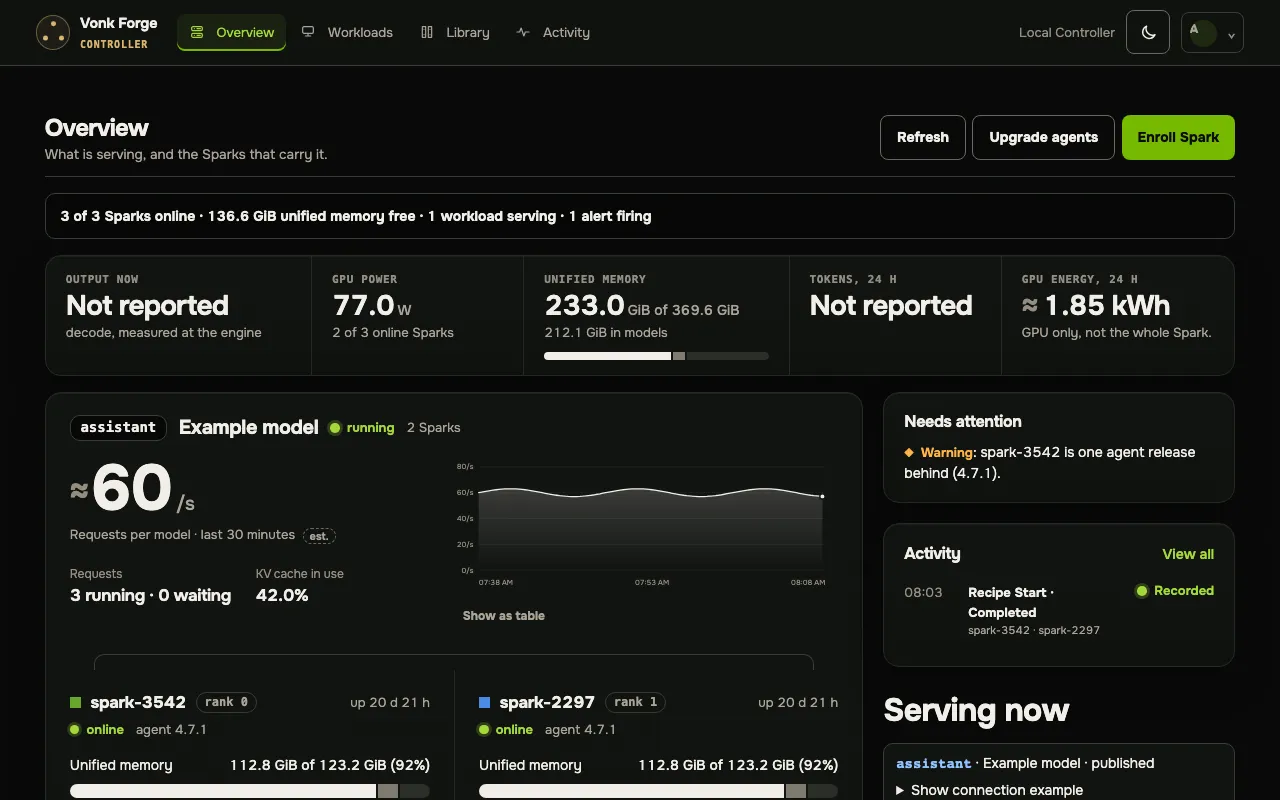
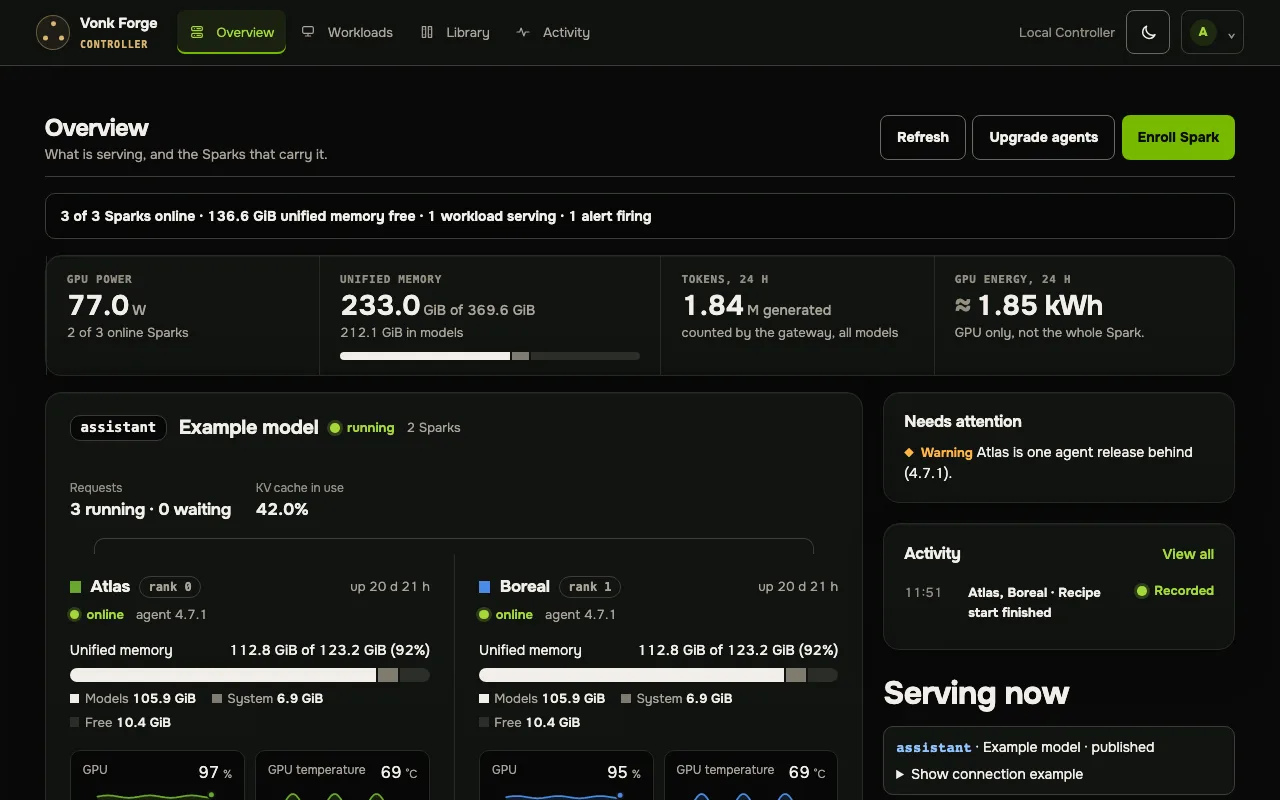
README hero: use the Overview capture with example Spark names
The previous capture showed the fixture's real Spark hostnames. This is the
same capture the website uses (vonk-forge-web #218): Sparks Atlas, Boreal
and Cirrus, illustrative KPIs, no speed figures.

Claude-Session: https://claude.ai/code/session_01DaJVtqsPAPpx9YBbXxQfdK

diff --git a/README.md b/README.md
@@ -12,10 +12,10 @@ preview changes, and operate one Spark or a fleet.
 [Browse recipes](https://vonkforge.ai/recipes) ·
 [Read the operator docs](docs/README.md)
 
-![Vonk Forge Controller Overview: the model that is serving, its request rate, GPU power, unified memory, the Sparks that carry it, and what needs attention](docs/assets/controller-overview.webp)
+![Vonk Forge Controller Overview: the workload that is serving, GPU power, unified memory, tokens and energy, the Sparks that carry it, and what needs attention](docs/assets/controller-overview.webp)
 
-> The Controller Overview, captured from the browser-test fixture data. It
-> contains no live fleet data.
+> The Controller Overview with example data (Sparks Atlas, Boreal and Cirrus).
+> It contains no live fleet data.
 
 ## What it gives you
 
